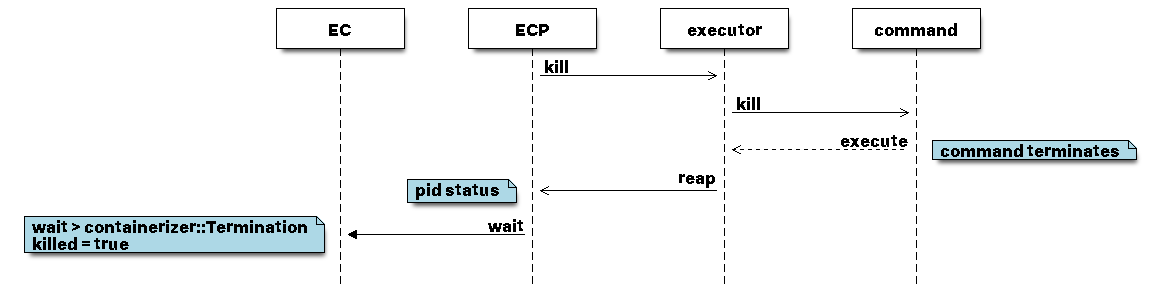
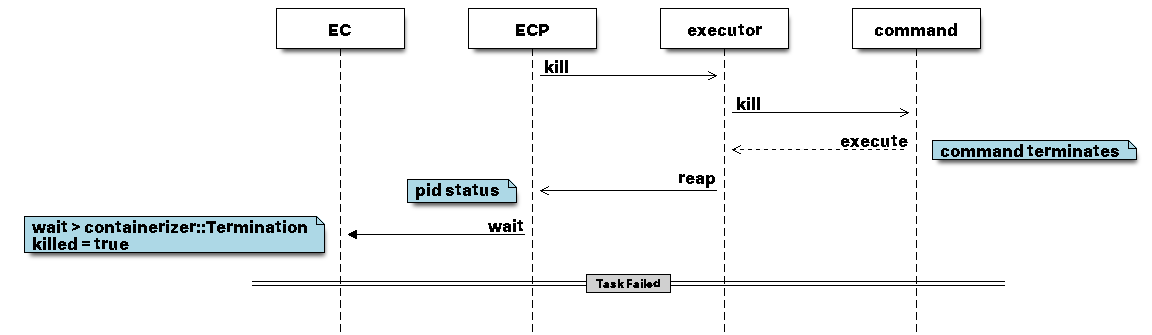
Added render results.

diff --git a/docs/external-containerizer.md b/docs/external-containerizer.md
@@ -83,10 +83,10 @@ via fork-exec within the ECP.
 ## Task Lifecycle Sequence Diagrams
 
 
-### Task Lifecycle
+### Task Lifespan
 ![Task Lifecycle Scheme](https://github.com/lobotomat/mesos/blob/master/docs/images/ec-launch-seqdiag.png?raw=true)
 
-### Isolation
+### Task Lifecycle
 ![Isolation Scheme](https://github.com/lobotomat/mesos/blob/master/docs/images/ec-lifecycle-seqdiag.png?raw=true)
 
 ### Resource Limitation
